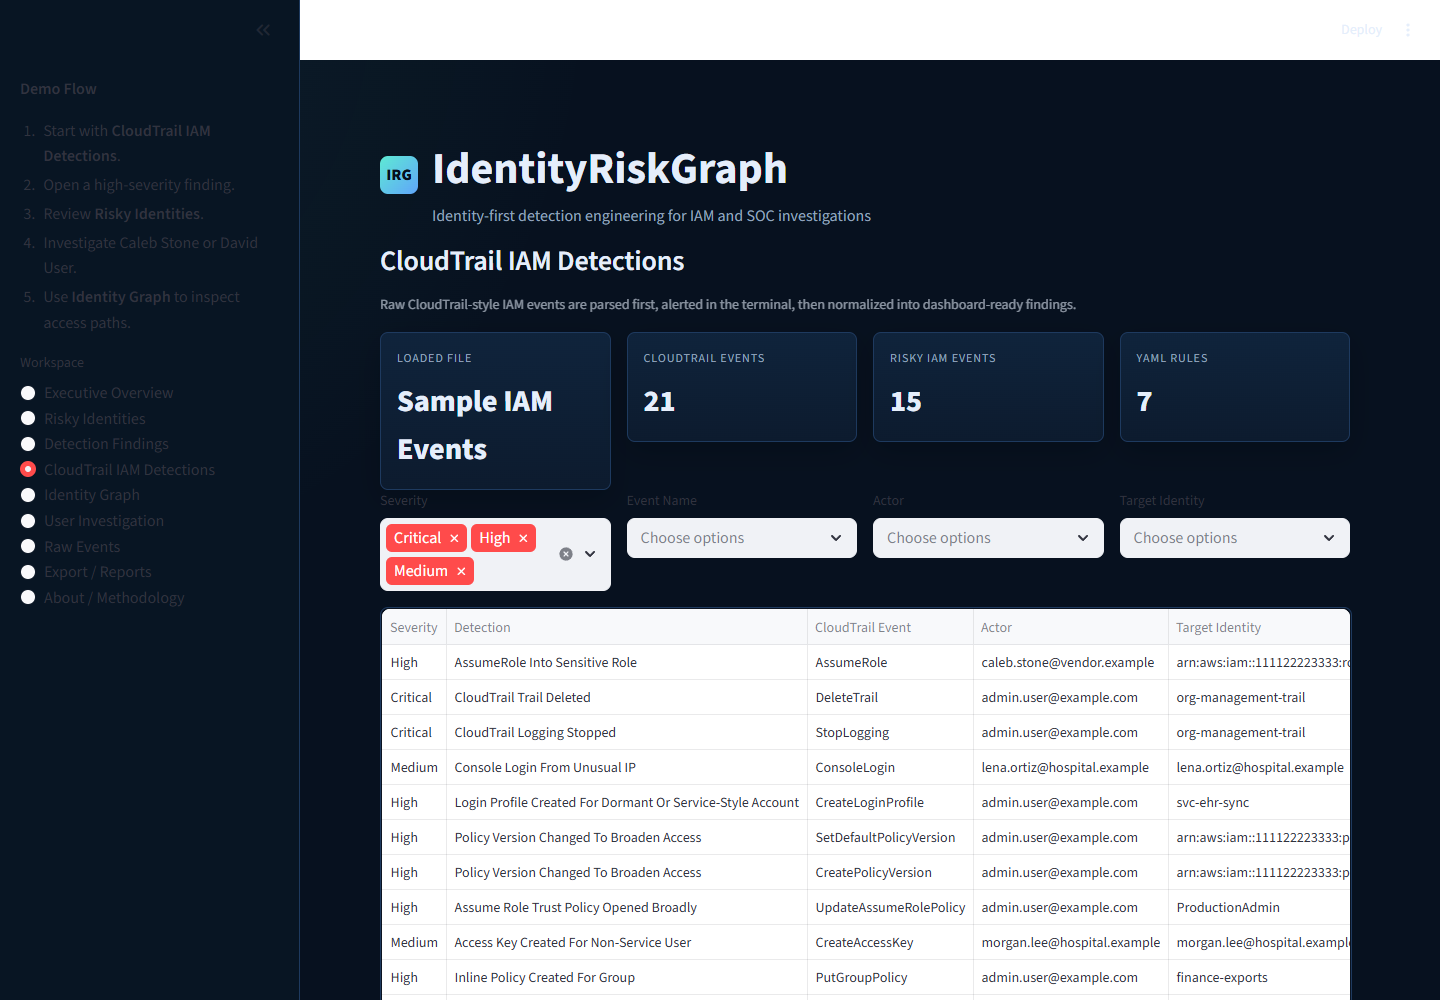
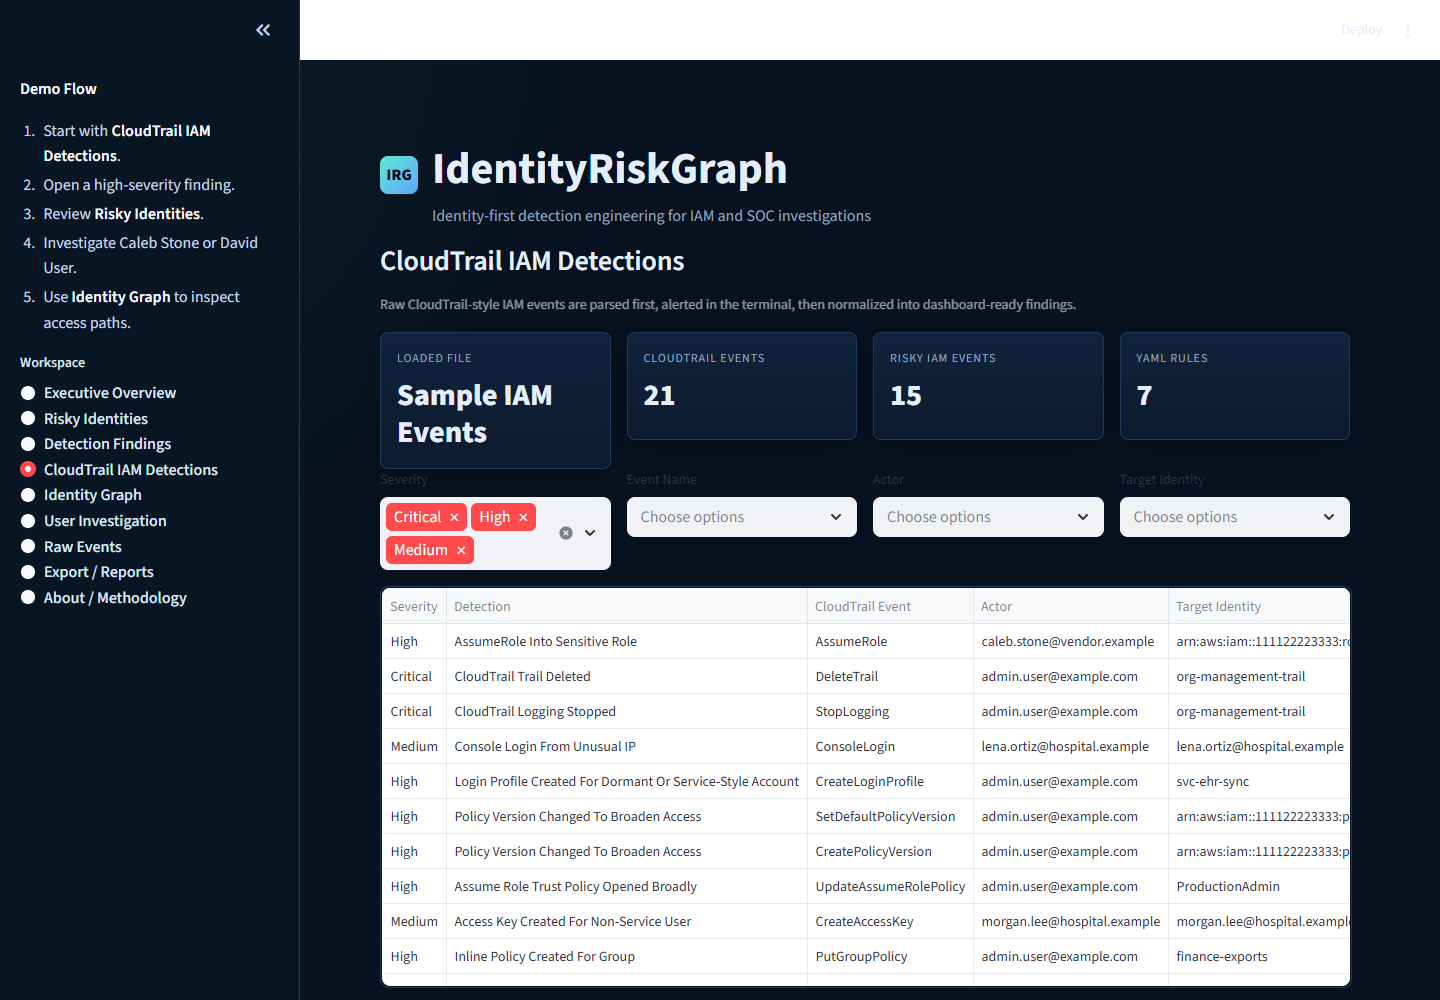
Improve demo flow and dashboard readability

diff --git a/src/ui_components.py b/src/ui_components.py
@@ -15,13 +15,16 @@ def apply_theme() -> None:
         :root { --bg:#07111f; --panel:#0d1b2f; --panel2:#10243d; --border:#1e3a5f; --text:#e5eefb; --muted:#92a4bd; --cyan:#5eead4; --rose:#fb7185; --amber:#f59e0b; --blue:#60a5fa; }
         .stApp { background: radial-gradient(circle at top left, rgba(94,234,212,.08), transparent 34%), #07111f; color: var(--text); }
         section[data-testid="stSidebar"] { background: #081523; border-right: 1px solid var(--border); }
+        section[data-testid="stSidebar"] * { color: #c7d6ea !important; }
+        section[data-testid="stSidebar"] label p { color: #dce8f8 !important; font-weight: 520; }
+        section[data-testid="stSidebar"] strong { color: #f8fbff !important; }
         h1, h2, h3 { letter-spacing: 0; }
         .irg-title { display:flex; align-items:center; gap:14px; padding: 10px 0 4px; }
         .irg-mark { width:38px; height:38px; border-radius:8px; background: linear-gradient(135deg,#5eead4,#60a5fa); color:#06101d; display:grid; place-items:center; font-weight:900; }
         .irg-subtitle { color: var(--muted); margin-top:-8px; }
         .kpi-card { background: linear-gradient(180deg, rgba(16,36,61,.96), rgba(13,27,47,.96)); border:1px solid var(--border); border-radius:8px; padding:16px; min-height:108px; box-shadow: 0 10px 30px rgba(0,0,0,.18); }
         .kpi-label { color: var(--muted); font-size:12px; text-transform:uppercase; letter-spacing:.08em; }
-        .kpi-value { font-size:30px; font-weight:800; margin-top:8px; }
+        .kpi-value { font-size:30px; font-weight:800; margin-top:8px; line-height:1.25; overflow-wrap:anywhere; }
         .sev-Critical,.band-Critical { color:#fecdd3; background:rgba(244,63,94,.22); border:1px solid rgba(244,63,94,.4); padding:3px 8px; border-radius:999px; font-weight:700; }
         .sev-High,.band-High { color:#fed7aa; background:rgba(245,158,11,.20); border:1px solid rgba(245,158,11,.38); padding:3px 8px; border-radius:999px; font-weight:700; }
         .sev-Medium,.band-Medium { color:#bfdbfe; background:rgba(96,165,250,.18); border:1px solid rgba(96,165,250,.34); padding:3px 8px; border-radius:999px; font-weight:700; }
@@ -68,4 +71,3 @@ def bar_chart(df: pd.DataFrame, x: str, y: str, color: str | None = None, title:
     fig = px.bar(df, x=x, y=y, color=color, title=title, template="plotly_dark", color_discrete_sequence=["#5eead4", "#60a5fa", "#f59e0b", "#fb7185"])
     fig.update_layout(paper_bgcolor="rgba(0,0,0,0)", plot_bgcolor="rgba(7,17,31,.6)", font_color="#e5eefb")
     st.plotly_chart(fig, use_container_width=True)
-

diff --git a/app.py b/app.py
@@ -278,7 +278,9 @@ def user_investigation(data: dict) -> None:
     st.subheader("User Investigation")
     st.caption("Analyst case view: profile, risk factors, access paths, recent activity, findings, and notes.")
     users_by_name = {user.display_name: user for user in data["users"]}
-    selected = st.selectbox("Select identity", sorted(users_by_name))
+    names = sorted(users_by_name)
+    default_index = names.index("Caleb Stone") if "Caleb Stone" in names else 0
+    selected = st.selectbox("Select identity", names, index=default_index)
     user = users_by_name[selected]
     risk = data["risks"][user.user_id]
     access = data["access"][user.user_id]
@@ -294,6 +296,7 @@ def user_investigation(data: dict) -> None:
 
     st.markdown(f"### Case: {user.display_name}")
     st.write(f"**{user.job_title}** in **{user.department}** | `{user.user_type}` | Status: `{user.status}`")
+    st.info("Demo tip: Caleb Stone shows contractor risk plus CloudTrail IAM findings. David User shows nested group privilege inheritance.")
 
     st.subheader("Risk Breakdown")
     st.dataframe(pd.DataFrame([asdict(factor) for factor in risk.factors]), use_container_width=True, hide_index=True)

diff --git a/docs/demo_walkthrough.md b/docs/demo_walkthrough.md
@@ -1,0 +1,62 @@
+# Demo Walkthrough
+
+Use this flow when showing IdentityRiskGraph to a recruiter, hiring manager, IAM engineer, or SOC analyst.
+
+## 1. Start With The Terminal Detector
+
+```powershell
+python cloudtrail_detector.py --file data/cloudtrail/sample_cloudtrail_iam_events.json
+```
+
+Point out that raw CloudTrail-style JSON becomes readable IAM alerts with severity, actor, target, source IP, MITRE mapping, evidence, and recommended action.
+
+## 2. Open CloudTrail IAM Detections
+
+In the Streamlit dashboard, open **CloudTrail IAM Detections**.
+
+Show:
+
+- event count
+- risky IAM event count
+- YAML rule count
+- filters for severity, event name, actor, and target identity
+- expanded finding details
+
+Good findings to open:
+
+- `AdministratorAccess Attached To User`
+- `CloudTrail Logging Stopped`
+- `AssumeRole Into Sensitive Role`
+
+## 3. Pivot To Risky Identities
+
+Open **Risky Identities** and explain that CloudTrail findings are folded into identity risk when the actor or target matches a simulated identity.
+
+## 4. Investigate Caleb Stone
+
+Open **User Investigation**. The default case is Caleb Stone because it demonstrates:
+
+- contractor context
+- sensitive permissions
+- CloudTrail IAM findings
+- risky access path
+- data export behavior
+- explainable risk factors
+
+## 5. Show David User In The Graph
+
+Use **Identity Graph** or the user selector to show David User as a nested-group inheritance scenario.
+
+The important talking point: privileged access can be indirect. A user may not have a direct admin role, but nested group paths can create the same effective risk.
+
+## 6. Close With Exports
+
+Open **Export / Reports** and show:
+
+- CSV findings export
+- JSON findings export
+- Splunk-friendly JSON export
+- Markdown user investigation report
+
+This ties the project back to SOC and detection engineering workflows: alerts, triage, evidence, and reporting.
+

diff --git a/docs/architecture.md b/docs/architecture.md
@@ -2,6 +2,8 @@
 
 IdentityRiskGraph is a local-only defensive simulation. It does not connect to production identity providers, cloud APIs, or real tenant data.
 
+The project is intentionally split into a terminal-first detector and an investigation dashboard. That makes it usable as both a command-line detection engineering artifact and a SOC-style portfolio demo.
+
 ## Pipeline
 
 ```mermaid

diff --git a/README.md b/README.md
@@ -177,6 +177,8 @@ Every user has a factor breakdown showing what added points and why. Example fac
 6. Use **Identity Graph** to inspect how access is inherited.
 7. Export findings as CSV, JSON, Markdown, or Splunk-friendly JSON.
 
+For a presenter-friendly walkthrough, see [docs/demo_walkthrough.md](docs/demo_walkthrough.md).
+
 ## Project Structure
 
 ```text
